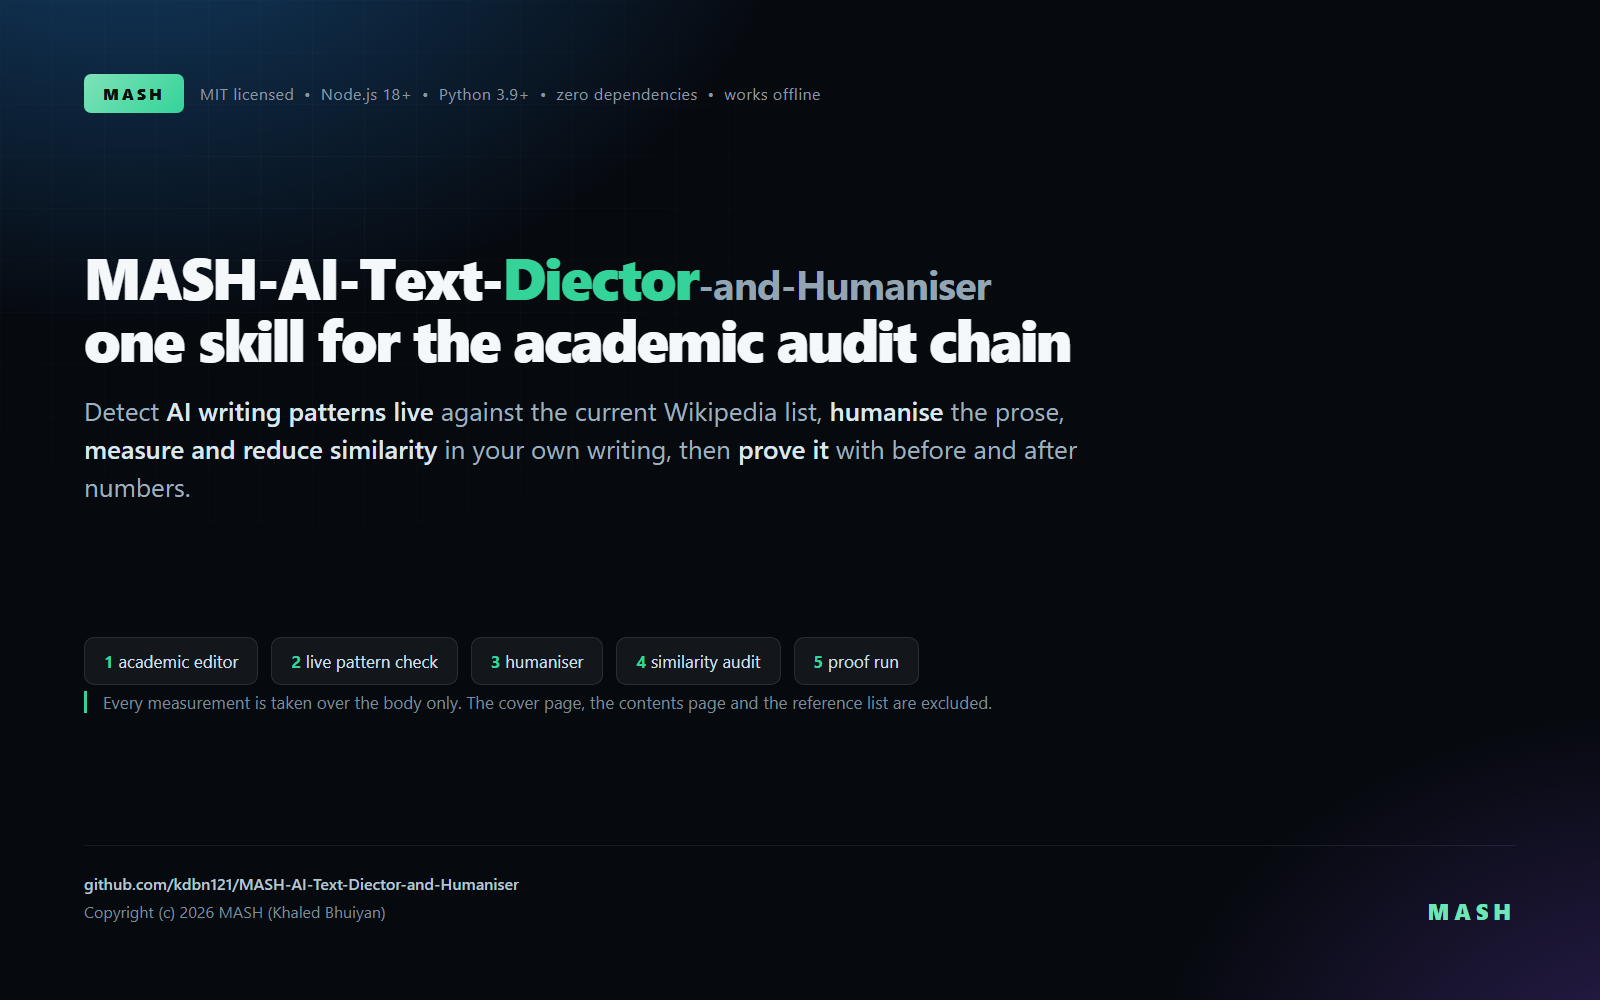
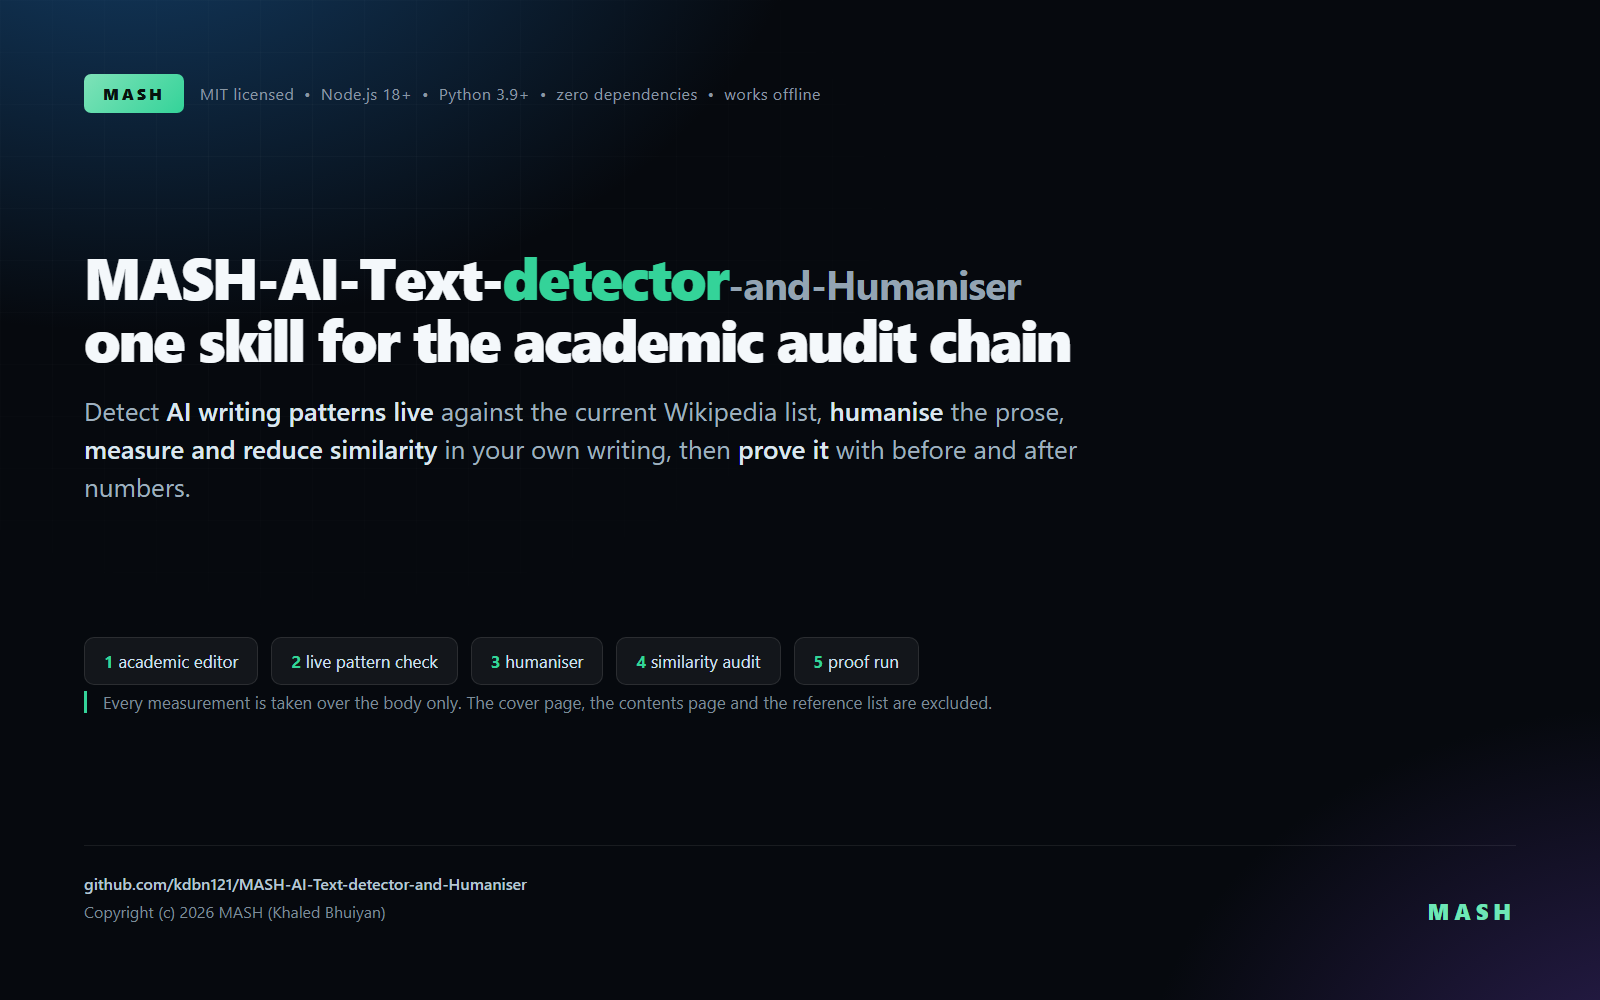
fix spell the project name as MASH-AI-Text-detector-and-Humaniser

Changed region(s): [[0.3125, 0.248, 0.6562, 0.31], [0.2188, 0.868, 0.3438, 0.899]]

diff --git a/docs/images/source/card.html b/docs/images/source/card.html
@@ -2,7 +2,7 @@
 <html lang="en">
 <head>
 <meta charset="utf-8">
-<title>MASH AI Text Diector and Humaniser</title>
+<title>MASH AI Text detector and Humaniser</title>
 <style>
   * { margin: 0; padding: 0; box-sizing: border-box; }
   html, body { width: 1600px; height: 1000px; overflow: hidden; }
@@ -68,7 +68,7 @@
   </div>
 
   <div>
-    <h1>MASH-AI-Text-<span class="mark">Diector</span><span class="suffix">-and-Humaniser</span><br>
+    <h1>MASH-AI-Text-<span class="mark">detector</span><span class="suffix">-and-Humaniser</span><br>
       one skill for the academic audit chain</h1>
     <p class="sub">Detect <b>AI writing patterns live</b> against the current Wikipedia list, <b>humanise</b> the prose,
       <b>measure and reduce similarity</b> in your own writing, then <b>prove it</b> with before and after numbers.</p>
@@ -87,7 +87,7 @@
 
   <div class="foot">
     <div class="left">
-      <b>github.com/kdbn121/MASH-AI-Text-Diector-and-Humaniser</b><br>
+      <b>github.com/kdbn121/MASH-AI-Text-detector-and-Humaniser</b><br>
       Copyright (c) 2026 MASH (Khaled Bhuiyan)
     </div>
     <div class="kdbn">MASH</div>

diff --git a/docs/images/source/social-preview.html b/docs/images/source/social-preview.html
@@ -64,7 +64,7 @@
   </div>
 
   <div>
-    <h1>MASH-AI-Text-<span class="mark">Diector</span><span class="suffix">-and-Humaniser</span><br>one skill, five stages, one proof</h1>
+    <h1>MASH-AI-Text-<span class="mark">detector</span><span class="suffix">-and-Humaniser</span><br>one skill, five stages, one proof</h1>
     <p class="sub">Live <b>AI pattern detection</b>, <b>humanising</b>, and a measured <b>similarity audit</b> over the body only, with the before and after numbers.</p>
   </div>
 
@@ -78,7 +78,7 @@
 
   <div class="foot">
     <div class="left">
-      <b>github.com/kdbn121/MASH-AI-Text-Diector-and-Humaniser</b><br>
+      <b>github.com/kdbn121/MASH-AI-Text-detector-and-Humaniser</b><br>
       Copyright (c) 2026 MASH (Khaled Bhuiyan)
     </div>
     <div class="kdbn">MASH</div>

diff --git a/README.md b/README.md
@@ -1,9 +1,9 @@
 <p align="center">
-  <img src="docs/images/mash-card.png" alt="MASH AI Text Diector and Humaniser: one skill that detects AI writing patterns, humanises the prose and proves the similarity is down" width="900">
+  <img src="docs/images/mash-card.png" alt="MASH AI Text detector and Humaniser: one skill that detects AI writing patterns, humanises the prose and proves the similarity is down" width="900">
 </p>
 
 <p align="center">
-  <a href="https://github.com/kdbn121/MASH-AI-Text-Diector-and-Humaniser/actions/workflows/ci.yml"><img alt="CI" src="https://github.com/kdbn121/MASH-AI-Text-Diector-and-Humaniser/actions/workflows/ci.yml/badge.svg"></a>
+  <a href="https://github.com/kdbn121/MASH-AI-Text-detector-and-Humaniser/actions/workflows/ci.yml"><img alt="CI" src="https://github.com/kdbn121/MASH-AI-Text-detector-and-Humaniser/actions/workflows/ci.yml/badge.svg"></a>
   <a href="LICENSE"><img alt="MIT Licence" src="https://img.shields.io/badge/licence-MIT-34d399?style=flat-square"></a>
   <img alt="Node 18 or newer" src="https://img.shields.io/badge/node-18%2B-8b949e?style=flat-square">
   <img alt="Python 3 or newer" src="https://img.shields.io/badge/python-3.9%2B-3776ab?style=flat-square">
@@ -12,7 +12,7 @@
   <img alt="Skill for AI agents" src="https://img.shields.io/badge/skill-AI%20agent-6ee7b7?style=flat-square">
 </p>
 
-# MASH AI Text Diector and Humaniser
+# MASH AI Text detector and Humaniser
 
 **One skill for the whole academic writing audit chain: detect the AI writing patterns live, humanise the prose, measure and reduce the similarity, then prove it with numbers.**
 
@@ -47,17 +47,17 @@ The skill is a folder with a `SKILL.md` in it. Copy it into the skills folder of
 agent you use.
 
 ```bash
-git clone https://github.com/kdbn121/MASH-AI-Text-Diector-and-Humaniser.git
+git clone https://github.com/kdbn121/MASH-AI-Text-detector-and-Humaniser.git
 ```
 
 Then place the folder where your agent looks for skills:
 
 | Agent | Location |
 | --- | --- |
-| Claude Code | `~/.claude/skills/MASH-AI-Text-Diector-and-Humaniser` |
-| OpenAI Codex | `~/.codex/skills/MASH-AI-Text-Diector-and-Humaniser` |
-| opencode | `~/.config/opencode/skill/MASH-AI-Text-Diector-and-Humaniser` |
-| MiniMax Code | `C:\Users\imalp\.minimax\skills\MASH-AI-Text-Diector-and-Humaniser` |
+| Claude Code | `~/.claude/skills/MASH-AI-Text-detector-and-Humaniser` |
+| OpenAI Codex | `~/.codex/skills/MASH-AI-Text-detector-and-Humaniser` |
+| opencode | `~/.config/opencode/skill/MASH-AI-Text-detector-and-Humaniser` |
+| MiniMax Code | `C:\Users\imalp\.minimax\skills\MASH-AI-Text-detector-and-Humaniser` |
 
 Requirements: Node.js 18 or newer for the similarity engine, Python 3.9 or newer for
 the live pattern scripts. Neither needs a third party package.
@@ -132,7 +132,7 @@ The older names `--exclude-front` and `--no-front-no-refs` still work as aliases
 ## Repository layout
 
 ```
-MASH-AI-Text-Diector-and-Humaniser/
+MASH-AI-Text-detector-and-Humaniser/
   SKILL.md                     the merged skill, the five stages and the fixed order
   README.md                    this file
   CHANGELOG.md                 what changed in each version
@@ -207,5 +207,5 @@ MIT. Copyright (c) 2026 MASH (Khaled Bhuiyan).
 ## Links
 
 - Live pattern source: <https://en.wikipedia.org/wiki/Wikipedia:Signs_of_AI_writing>
-- Repository: <https://github.com/kdbn121/MASH-AI-Text-Diector-and-Humaniser>
+- Repository: <https://github.com/kdbn121/MASH-AI-Text-detector-and-Humaniser>
 - Owner: <https://github.com/kdbn121>

diff --git a/docs/UPLOAD-SHEET.md b/docs/UPLOAD-SHEET.md
@@ -1,10 +1,10 @@
-# GitHub upload sheet for MASH-AI-Text-Diector-and-Humaniser
+# GitHub upload sheet for MASH-AI-Text-detector-and-Humaniser
 
 Everything you need to create the repository on github.com and push the folder.
 
 ## Repository name
 
-    MASH-AI-Text-Diector-and-Humaniser
+    MASH-AI-Text-detector-and-Humaniser
 
 ## Description (the "About" field, 100 character limit)
 
@@ -55,15 +55,15 @@ Everything you need to create the repository on github.com and push the folder.
 
 1. Open https://github.com/new
 2. Owner: kdbn121
-3. Repository name: MASH-AI-Text-Diector-and-Humaniser
+3. Repository name: MASH-AI-Text-detector-and-Humaniser
 4. Description: copy the short description above
 5. Visibility: Public
 6. Do NOT tick "Add a README file", "Add .gitignore" or "Choose a licence". The folder already has all three.
 7. Click "Create repository"
 8. Open GitHub Desktop, or a terminal, in the folder
-       C:\Users\imalp\Projects\MASH-AI-Text-Diector-and-Humaniser
+       C:\Users\imalp\Projects\MASH-AI-Text-detector-and-Humaniser
 9. Add the remote and push
-       git remote add origin https://github.com/kdbn121/MASH-AI-Text-Diector-and-Humaniser.git
+       git remote add origin https://github.com/kdbn121/MASH-AI-Text-detector-and-Humaniser.git
        git push -u origin main
 10. Set the topics on the repo landing page, in the gear icon beside "About"
 11. Upload the social preview image

diff --git a/SKILL.md b/SKILL.md
@@ -1,5 +1,5 @@
 ---
-name: mash-ai-text-diector-and-humaniser
+name: mash-ai-text-detector-and-humaniser
 description: |
   One skill that runs the whole academic writing audit chain in a fixed order: the
   academic editor stage, the live AI pattern check against the current Wikipedia
@@ -14,7 +14,7 @@ description: |
   academic prose. It never disguises work the user did not author.
 ---
 
-# MASH AI Text Diector and Humaniser
+# MASH AI Text detector and Humaniser
 
 Five stages, one order, one proof. The order matters, because each stage measures
 what the stage before it produced.

diff --git a/CHANGELOG.md b/CHANGELOG.md
@@ -8,7 +8,7 @@ All notable changes to this project are recorded here. The format follows
 
 ### Added
 
-- The merged skill `MASH-AI-Text-Diector-and-Humaniser`, one skill that runs the
+- The merged skill `MASH-AI-Text-detector-and-Humaniser`, one skill that runs the
   academic editor stage, the live pattern check, the humaniser stage, the similarity
   audit and the proof run in a fixed order.
 - The live pattern scripts, `fetch_patterns.py`, `pattern_lint.py` and

diff --git a/CONTRIBUTING.md b/CONTRIBUTING.md
@@ -6,8 +6,8 @@ owner, so the bar for a change is that it keeps the chain honest.
 ## Getting set up
 
 ```bash
-git clone https://github.com/kdbn121/MASH-AI-Text-Diector-and-Humaniser.git
-cd MASH-AI-Text-Diector-and-Humaniser
+git clone https://github.com/kdbn121/MASH-AI-Text-detector-and-Humaniser.git
+cd MASH-AI-Text-detector-and-Humaniser
 ```
 
 You need Node.js 18 or newer and Python 3.9 or newer. Neither script needs a third
